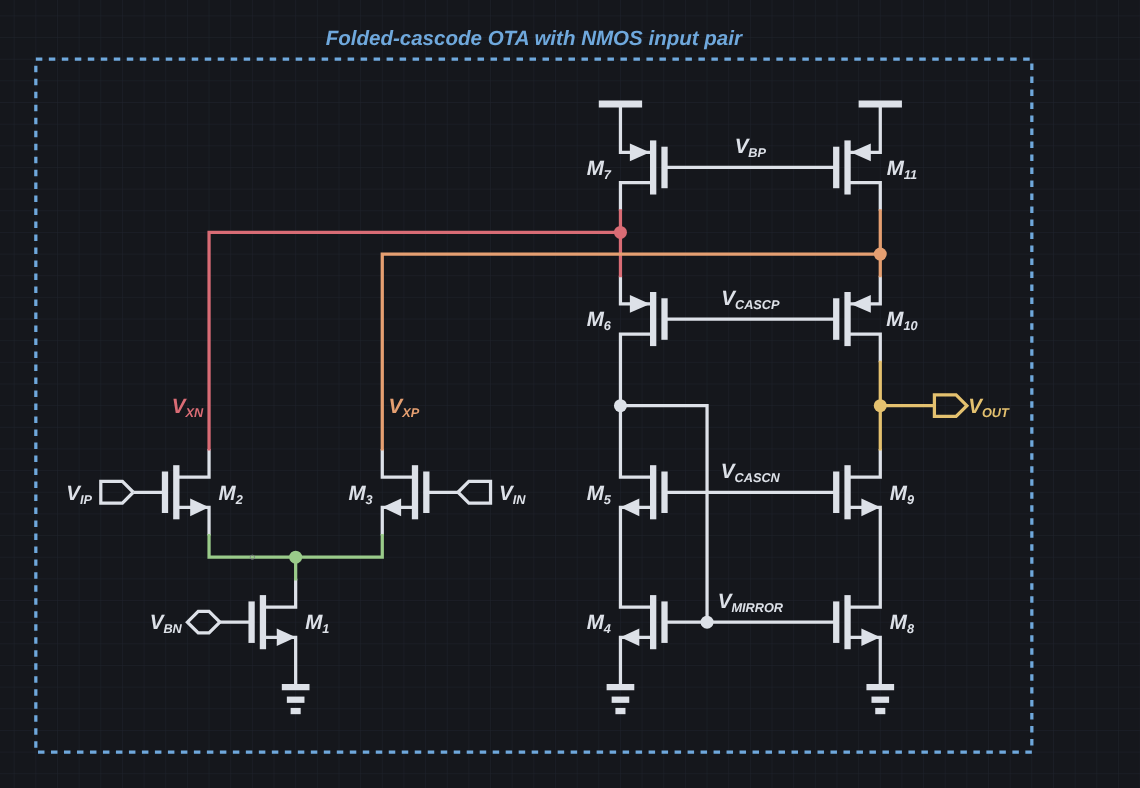
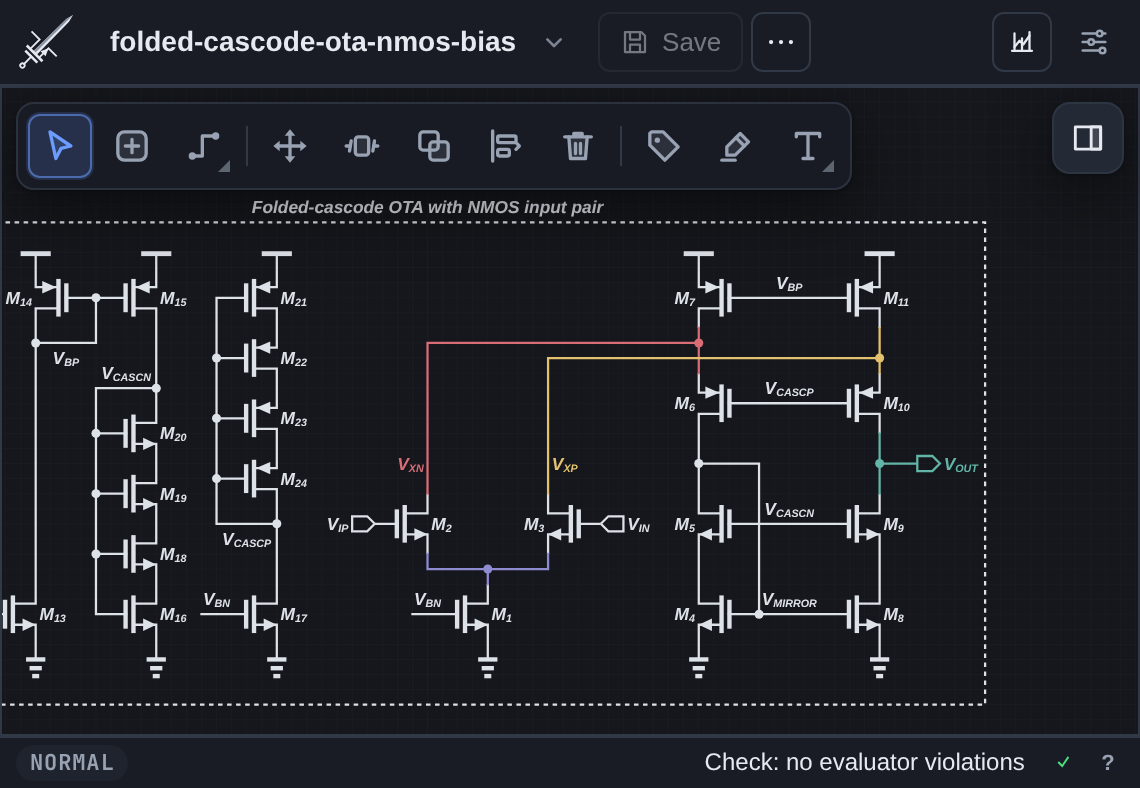
Face net labels toward their wire, add Align to the radial menu, refresh the README
- Net labels at the side of a wire default to the 'parent' alignment: the
  text aligns toward the wire end and the box grows away from it. Documents
  without labelAlignVersion 3 load their centered net labels that way (and,
  before ownedLabelAlignVersion 2, their centered part labels too).
- The radial menu gains Align, which starts the Align tool on the part.
- README: new screenshots of the folded-cascode OTA with its bias network, a
  Beats section with a beat strip and the switched-capacitor integrator's
  phase beats, and "assisted wiring" in place of auto-routing.

diff --git a/src/core/model.js b/src/core/model.js
@@ -338,9 +338,10 @@ export function symbolInkRect(def) {
   return rect;
 }
 
-/** Label alignments. 'parent' is the owned-label default: text beside its
- * part aligns toward it, and the box keeps the edge facing the part fixed
- * however wide the text grows; above or below the part it is centered. */
+/** Label alignments. 'parent' is the default for owned and net labels: text
+ * beside its part aligns toward it, and the box keeps the edge facing the
+ * part fixed however wide the text grows; a net label at the side of a wire
+ * aligns toward the wire. Above or below, the text is centered. */
 export const LABEL_ALIGNS = Object.freeze(['center', 'left', 'right', 'parent']);
 
 /**
@@ -716,7 +717,9 @@ export class LabelInstance {
     this._text = opts.text !== undefined
       ? (this.math ? normalizeMathSource(opts.text) : String(opts.text))
       : 'label';
-    this.align = LABEL_ALIGNS.includes(opts.align) ? opts.align : 'center';
+    // Net labels and a part's own label face what they name; other text centers.
+    this.align = LABEL_ALIGNS.includes(opts.align) ? opts.align
+      : this.netId || (opts.owner && !opts.role) ? 'parent' : 'center';
     this.style = {
       color: opts.style?.color || '#111',
       lineStyle: opts.style?.lineStyle || 'solid',
@@ -962,10 +965,11 @@ export class LabelInstance {
     return null;
   }
 
-  /** The alignment the text is drawn with: 'parent' resolved toward the part. */
+  /** The alignment the text is drawn with: 'parent' resolved toward the part
+   * or, for a net label at the side of a wire, toward the wire. */
   textAlign() {
     if (this.align !== 'parent') return this.align;
-    const side = this.besideOwner();
+    const side = this.netId ? this.netSide : this.besideOwner();
     return side === 'left' ? 'right' : side === 'right' ? 'left' : 'center';
   }
 
@@ -1063,13 +1067,13 @@ export class LabelInstance {
   }
 
   setAlign(a) {
-    if (a === 'parent' && !this.owner) return;
+    if (a === 'parent' && !this.owner && !this.netId) return;
     if (LABEL_ALIGNS.includes(a)) this.align = a;
   }
 
   /** The alignment a label starts with, and returns to when cycled. */
   defaultAlign() {
-    return this.owner && !this.role ? 'parent' : 'center';
+    return this.netId || (this.owner && !this.role) ? 'parent' : 'center';
   }
 
   moveTo(wx, wy) {
@@ -5975,7 +5979,7 @@ export class Circuit {
       version: 2,
       sequentialVariantVersion: 2,
       opampPolarityVersion: 2,
-      ownedLabelAlignVersion: 2,
+      labelAlignVersion: 3,
       grid: 40,
       components: [...this.components.values()].map((c) => c.toJSON()),
       nets: [...this.nets.values()].map((n) => n.toJSON()),
@@ -6086,6 +6090,7 @@ export class Circuit {
     // merge that was later split.
     circuit.netNameWarnings = circuit.netNameWarnings.filter((warning) => !warning.names.slice(1).some((name) =>
       [...circuit.nets].some(([id, net]) => id !== warning.netId && canonicalNetName(net.name) === canonicalNetName(name))));
+    const labelAlignVersion = data.labelAlignVersion ?? (data.ownedLabelAlignVersion >= 2 ? 2 : 1);
     const loadedLabelIds = new Set();
     for (const l of data.labels || []) {
       if (l.id && loadedLabelIds.has(l.id)) throw new Error(`label id "${l.id}" already in use`);
@@ -6099,8 +6104,9 @@ export class Circuit {
           id: l.id,
           kind: l.kind,
           text: l.text,
-          // Owned labels were all centered until they could align toward their part.
-          align: l.owner && !l.role && l.align === 'center' && !(data.ownedLabelAlignVersion >= 2) ? 'parent' : l.align,
+          // Labels were all centered until they could face what they name:
+          // part labels from version 2, net labels from version 3.
+          align: l.align === 'center' && ((l.netId && labelAlignVersion < 3) || (l.owner && !l.role && labelAlignVersion < 2)) ? 'parent' : l.align,
           owner: l.owner || null,
           role: l.role || null,
           signalTerminal: l.signalTerminal || null,

diff --git a/test/model.test.js b/test/model.test.js
@@ -2477,20 +2477,35 @@ test('a part label beside its part aligns toward it and keeps its box against it
   assert.deepEqual([vin.defaultAlign(), note.defaultAlign()], ['parent', 'center']);
 });
 
-test('older documents align their centered part labels toward the part on load', () => {
+test('older documents align their centered part and net labels toward what they name on load', () => {
   const c = new Circuit();
   c.addComponent('input', { refdes: 'VIN', x: 0, y: 0 });
+  const net = c.createWireNet({ name: 'X', route: [{ x: 400, y: 0 }, { x: 800, y: 0 }] });
+  const side = c.addNetLabel(net, { x: 800, y: 0, netSide: 'right' });
   const note = c.addLabel({ text: 'note', x: 0, y: 400 });
-  const legacy = c.toJSON();
-  delete legacy.ownedLabelAlignVersion;
-  for (const label of legacy.labels) label.align = 'center';
-  const loaded = Circuit.fromJSON(legacy);
+  assert.deepEqual([side.align, side.textAlign()], ['parent', 'left'], 'a new side net label faces its wire');
+  assert.equal(side.textPos().x, 800 + GRID / 4, 'one inset from the wire end');
+  const centered = () => {
+    const data = c.toJSON();
+    for (const label of data.labels) label.align = 'center';
+    delete data.labelAlignVersion;
+    return data;
+  };
+  // Before either: both kinds face what they name; free text stays centered.
+  let loaded = Circuit.fromJSON(centered());
   assert.equal(loaded.labelOf('VIN').align, 'parent');
+  assert.equal(loaded.labels.get(side.id).align, 'parent');
   assert.equal(loaded.labels.get(note.id).align, 'center');
-  // A document that already knows the alignment keeps a centered part label.
-  const current = c.toJSON();
-  current.labels.find((label) => label.owner === 'VIN').align = 'center';
-  assert.equal(Circuit.fromJSON(current).labelOf('VIN').align, 'center');
+  // Saved with part-label alignment only (version 2): net labels catch up.
+  const v2 = { ...centered(), ownedLabelAlignVersion: 2 };
+  loaded = Circuit.fromJSON(v2);
+  assert.equal(loaded.labelOf('VIN').align, 'center');
+  assert.equal(loaded.labels.get(side.id).align, 'parent');
+  // A current document keeps labels it centered on purpose.
+  const current = { ...centered(), labelAlignVersion: 3 };
+  loaded = Circuit.fromJSON(current);
+  assert.equal(loaded.labelOf('VIN').align, 'center');
+  assert.equal(loaded.labels.get(side.id).align, 'center');
 });
 
 test('sub-pixel measurement noise at a grid boundary does not shift aligned label edges', () => {

diff --git a/src/web/main.js b/src/web/main.js
@@ -2701,7 +2701,7 @@ function selectionStyleState() {
     supportsArrowhead: hasWireSelection || objects.some(supportsArrowhead),
     text: labels.length ? {
       align: labels.every((label) => label.align === labels[0].align) ? labels[0].align : null,
-      towardPart: labels.every((label) => label.owner),
+      towardPart: labels.every((label) => label.owner || label.netId),
       bold: selectedFontState('bold'),
       italic: selectedFontState('italic'),
     } : null,
@@ -4821,12 +4821,12 @@ function placeNetLabelAt(world) {
       // snapshot is recorded here and becomes the one atomic history entry if
       // the user eventually supplies a name.
       const initialSnapshot = snapshot();
-      label = circuit.addLabel({ text: '', netId: net.id, x: point.x, y: point.y, align: 'center' });
+      label = circuit.addLabel({ text: '', netId: net.id, x: point.x, y: point.y });
       label._provisionalInitialName = net.name || '';
       label._provisionalInitialSnapshot = initialSnapshot;
       markModelChanged(false);
     } else {
-      commit(() => { label = circuit.addNetLabel(net.id, { anchor: point, align: 'center' }); });
+      commit(() => { label = circuit.addNetLabel(net.id, { anchor: point }); });
     }
   } catch (err) {
     logLine(`NET LABEL: ${err.message}`, 'error');
@@ -7155,6 +7155,8 @@ const RADIAL_ITEMS = [
   } },
   { label: 'Detach move', icon: 'detach', run: (radial, at) => radialMove(radial, at, 'detached') },
   { label: 'Move', icon: 'move', run: (radial, at) => radialMove(radial, at, 'connected') },
+  // The part is selected; pick its edge or point to align, then the target's.
+  { label: 'Align', icon: 'align', run: () => activateAlign() },
 ];
 
 function radialMove(radial, at, kind) {

diff --git a/src/web/index.html b/src/web/index.html
@@ -402,7 +402,7 @@
                 <button type="button" class="icon-button" data-icon="align-left" data-style-align="left" aria-pressed="false" aria-label="Align left" title="Align left (Shift+Left)">Left</button>
                 <button type="button" class="icon-button" data-icon="align-center" data-style-align="center" aria-pressed="false" aria-label="Align center" title="Align center">Center</button>
                 <button type="button" class="icon-button" data-icon="align-right" data-style-align="right" aria-pressed="false" aria-label="Align right" title="Align right (Shift+Right)">Right</button>
-                <button type="button" class="icon-button" data-icon="align-parent" data-style-align="parent" aria-pressed="false" aria-label="Align toward the part" title="Toward the part: beside its part, text aligns to it and the box stays against it (the default for part labels)" hidden>Toward part</button>
+                <button type="button" class="icon-button" data-icon="align-parent" data-style-align="parent" aria-pressed="false" aria-label="Align toward the part or wire" title="Toward the part or wire: text beside its part or at the side of its wire aligns to it, and the box stays against it (the default for part and net labels)" hidden>Toward</button>
               </div>
               <div class="segmented" role="group" aria-label="Font style">
                 <button type="button" class="text-toggle text-toggle-bold" data-style-font="bold" aria-pressed="false" aria-label="Bold" title="Bold (Ctrl/Cmd+B)">B</button>

diff --git a/README.md b/README.md
@@ -2,9 +2,9 @@
 
 <h1 align="center">Mosfeteer</h1>
 
-<p align="center">A keyboard-driven editor for textbook-style analog schematics, with auto-routed wires and symbolic small-signal analysis.</p>
+<p align="center">A keyboard-driven editor for textbook-style analog schematics, with assisted wiring, presentation beats, and symbolic small-signal analysis.</p>
 
-![A folded-cascode OTA in the editor, split diagonally between the light and dark themes](docs/images/editor.png)
+![A folded-cascode OTA with its bias network in the editor, split diagonally between the light and dark themes](docs/images/editor.png)
 
 ## Symbolic analysis
 
@@ -14,13 +14,23 @@ Pick the input and output nets to derive `Z_in`, `Z_out`, `A_v`, and any poles a
 
 ## Fast editing
 
-Press `i` and type to insert a part. Wires route themselves around parts on the grid, and Design Check (`x`) catches dangling pins, overlaps, and off-grid geometry. Press `?` for every shortcut.
+Press `i` and type to insert a part. Assisted wiring lays each wire out on the grid around the parts as you draw it, and keeps it tidy when parts move. Design Check (`x`) catches dangling pins, overlapping text, and off-grid geometry. Press `?` for every shortcut.
 
 ![Fuzzy insert picker filtered to MOS transistors, open beside the OTA](docs/images/insert.png)
 
 | Persistent net highlights (`9`) | Right-drag a part for quick actions |
 | :---: | :---: |
-| ![The OTA with its V_XN, V_XP, V_OUT, and tail nets each highlighted in a different color](docs/images/highlight.png) | ![Radial menu around M9 with rotate, mirror, move, copy, and delete](docs/images/radial.png) |
+| ![The OTA with its V_XN, V_XP, V_OUT, and tail nets each highlighted in a different color](docs/images/highlight.png) | ![Radial menu around M9 with rotate, mirror, move, copy, align, and delete](docs/images/radial.png) |
+
+## Beats
+
+Beats are presentation steps over one drawing: each shows, dims, or hides parts, sets switch positions, and highlights nets, without copying anything. Build a figure up step by step (`Shift+B`, then `+`), present it full screen (`Shift+F5`), or export every beat as numbered files that line up.
+
+![Four beats of the OTA: the input pair, the folded cascode, the first bias branch, and the full bias network](docs/images/beats.png)
+
+Label switches with the phase that drives them, and **Beats from switch phases** (More menu) adds one beat per phase: its switches closed, the others open, and whatever the open switches cut off dimmed.
+
+![A switched-capacitor integrator in its two phases: C1 samples V_IN in phi 1, and dumps its charge into C2 in phi 2](docs/images/phase-beats.png)
 
 ## Symbols
 
@@ -47,7 +57,7 @@ The editor opens in an app-style Chromium window, or your default browser. To ge
 - Each schematic is a single `.json` file you can keep in a repository or share like any other file.
 - New documents are saved to a workspace folder, `~/Documents/Schematics` by default. **Open** (Ctrl/Cmd+O) and **Save as** work with any folder.
 - An open document with no unsaved changes reloads when its file changes on disk, for example after a `git pull`.
-- **Export** (Ctrl/Cmd+E) writes SVG, PDF, and PNG.
+- **Export** (Ctrl/Cmd+E) writes SVG, PDF, and PNG, framed tightly around what is drawn. A page guide (IEEE single or double column) pads the export so its text lands at the paper's figure size.
 
 ## Scripting
 
@@ -65,5 +75,6 @@ npm test
 ```
 
 - [`AGENTS.md`](AGENTS.md): editor behavior and the symbol specification
+- [`docs/beats.md`](docs/beats.md): how beats are stored and edited
 - [`docs/circuit-spec.md`](docs/circuit-spec.md): deterministic circuit generation
 - [`docs/topological-small-signal.md`](docs/topological-small-signal.md): how the analysis works

diff --git a/AGENTS.md b/AGENTS.md
@@ -107,11 +107,13 @@ preserve authored markup for display. Default numeric labels use explicit
 subscripts (`M_{1}`) while refdes connectivity remains `M1`. Never mutate the
 circuit when rejecting a duplicate.
 
-Owned labels default to the `parent` alignment: beside the part, the text
-aligns toward it with the full inset, and the box keeps the edge facing the
-part fixed as the text grows; above or below it the text is centered. Aligned
-text labels round their box up to include that inset. Documents without
-`ownedLabelAlignVersion` load their centered owned labels as `parent`.
+Owned and net labels default to the `parent` alignment: beside the part (or
+at the side of its wire, for a net label) the text aligns toward it with the
+full inset, and the box keeps the edge facing it fixed as the text grows;
+above or below, the text is centered. Aligned text labels round their box up
+to include that inset. Documents without `labelAlignVersion` 3 (or
+`ownedLabelAlignVersion` 2) load their centered part and net labels as
+`parent`.
 
 Interface ports are components and therefore also require unique identities.
 While a port is the only interface pin on its physical net, its authored label
